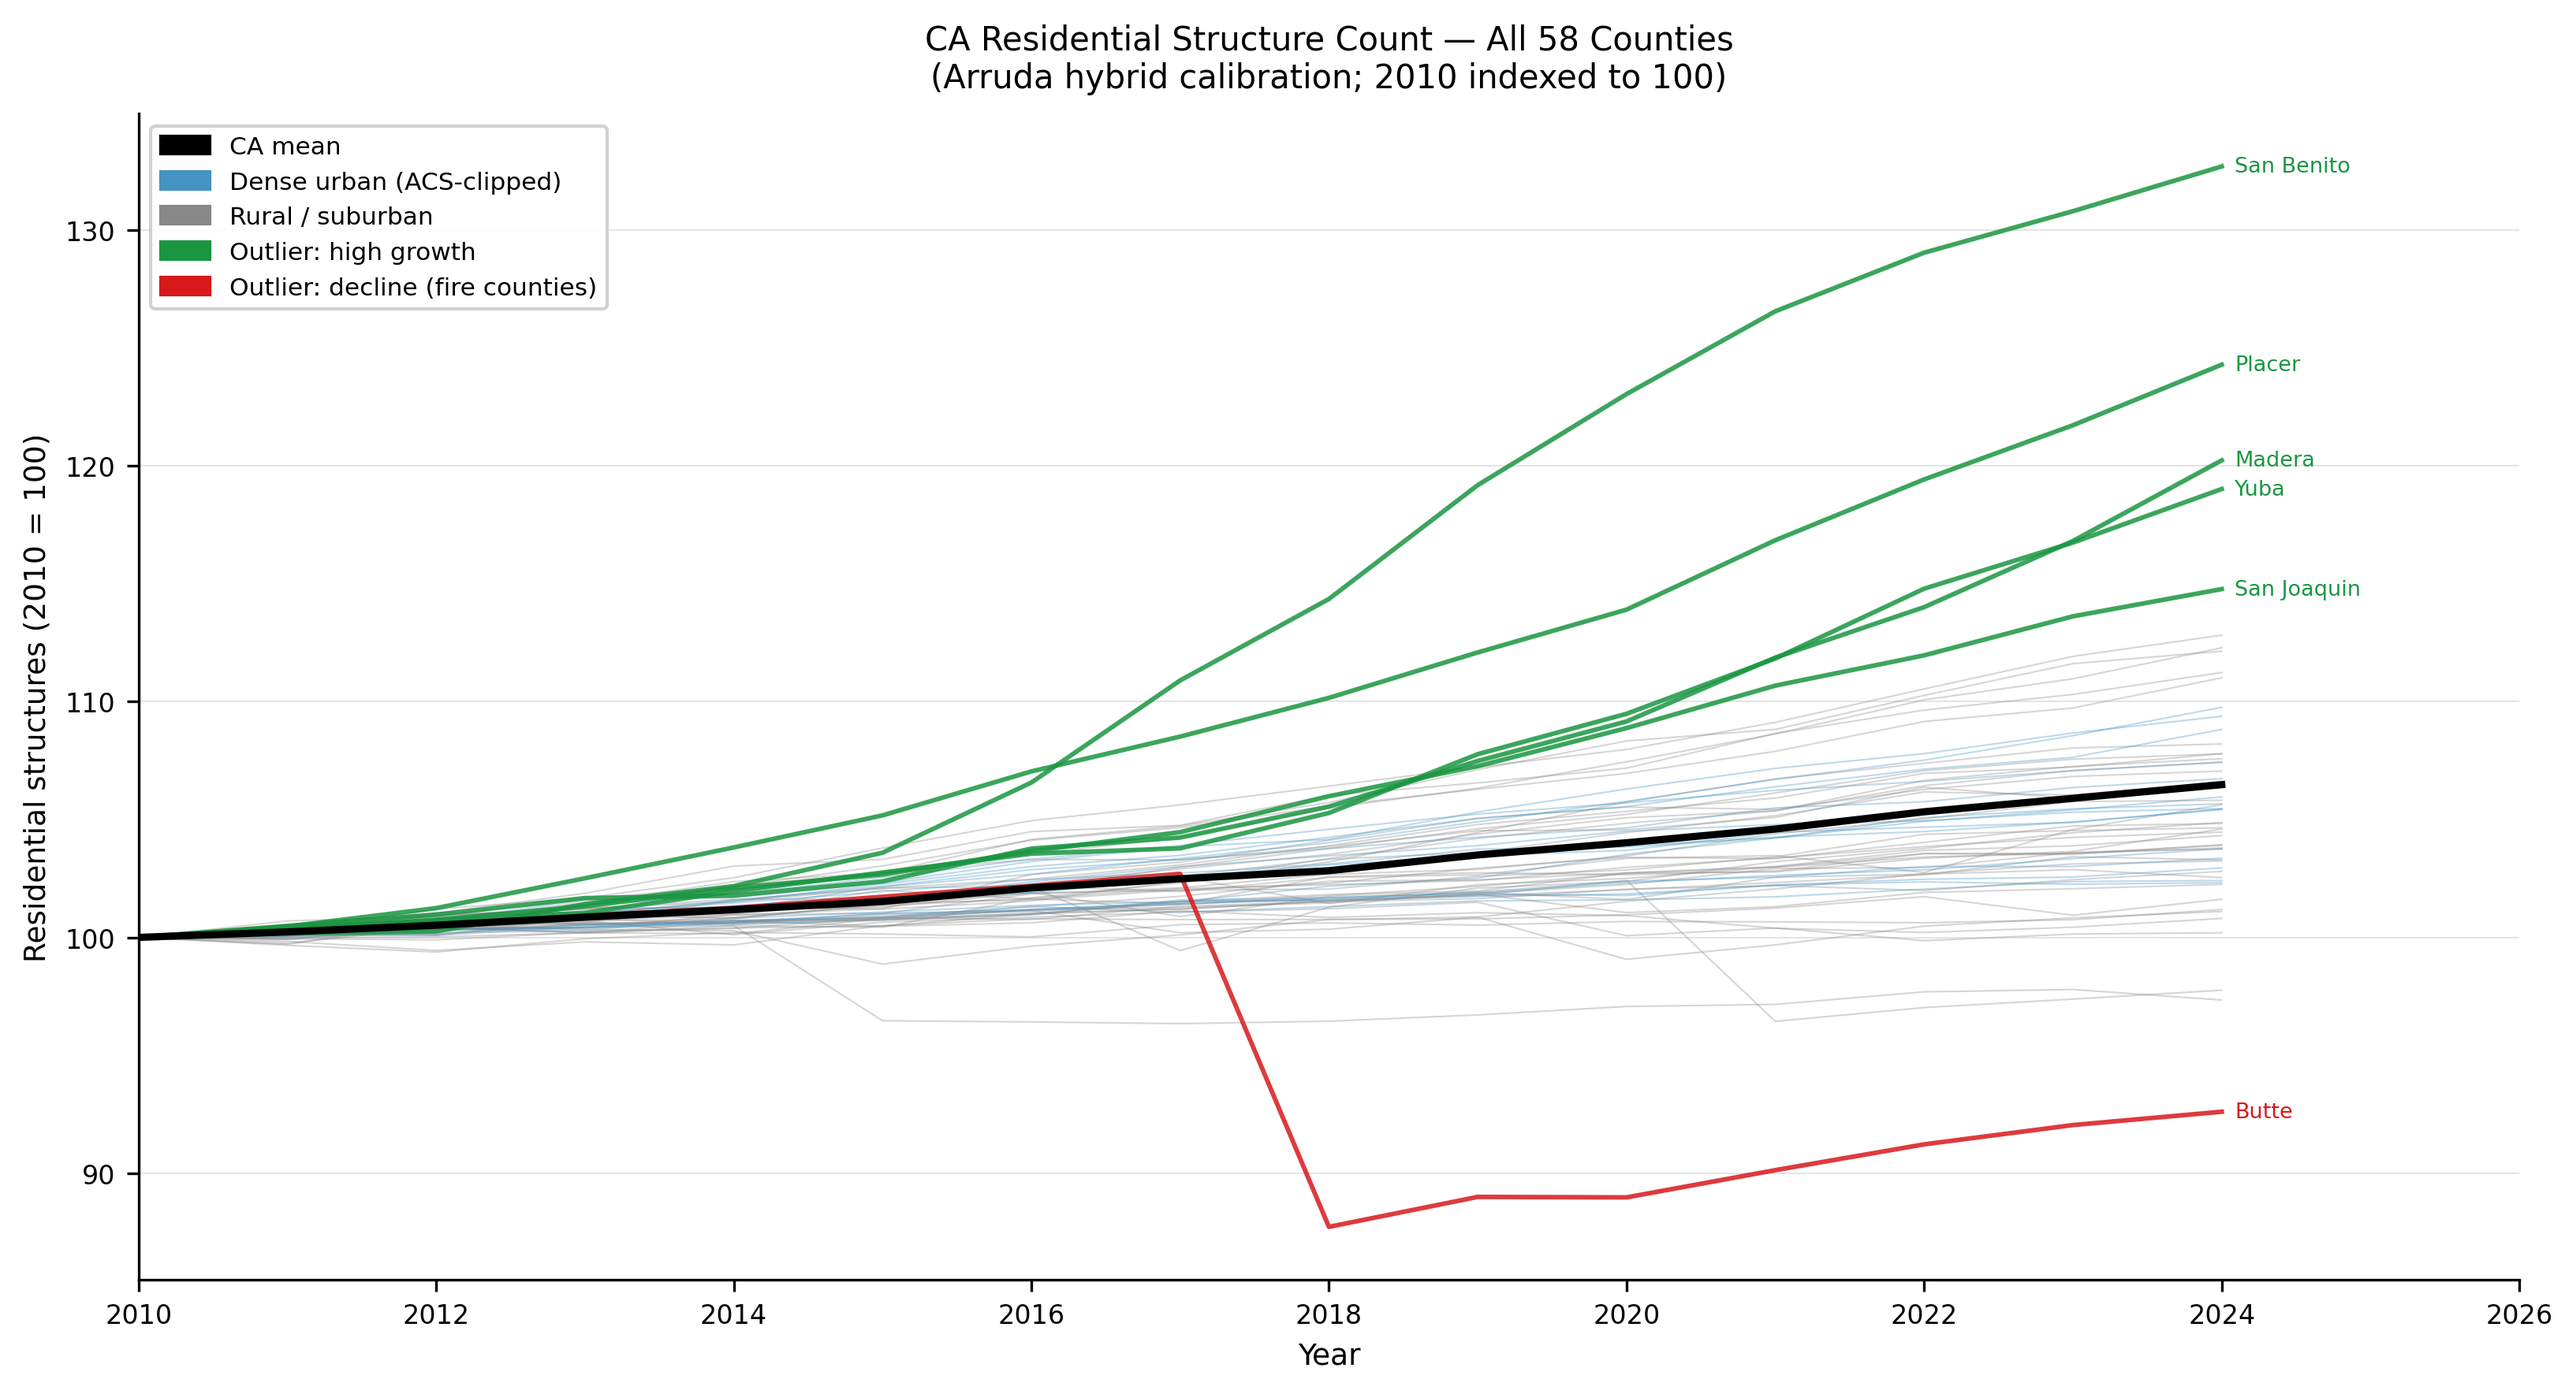
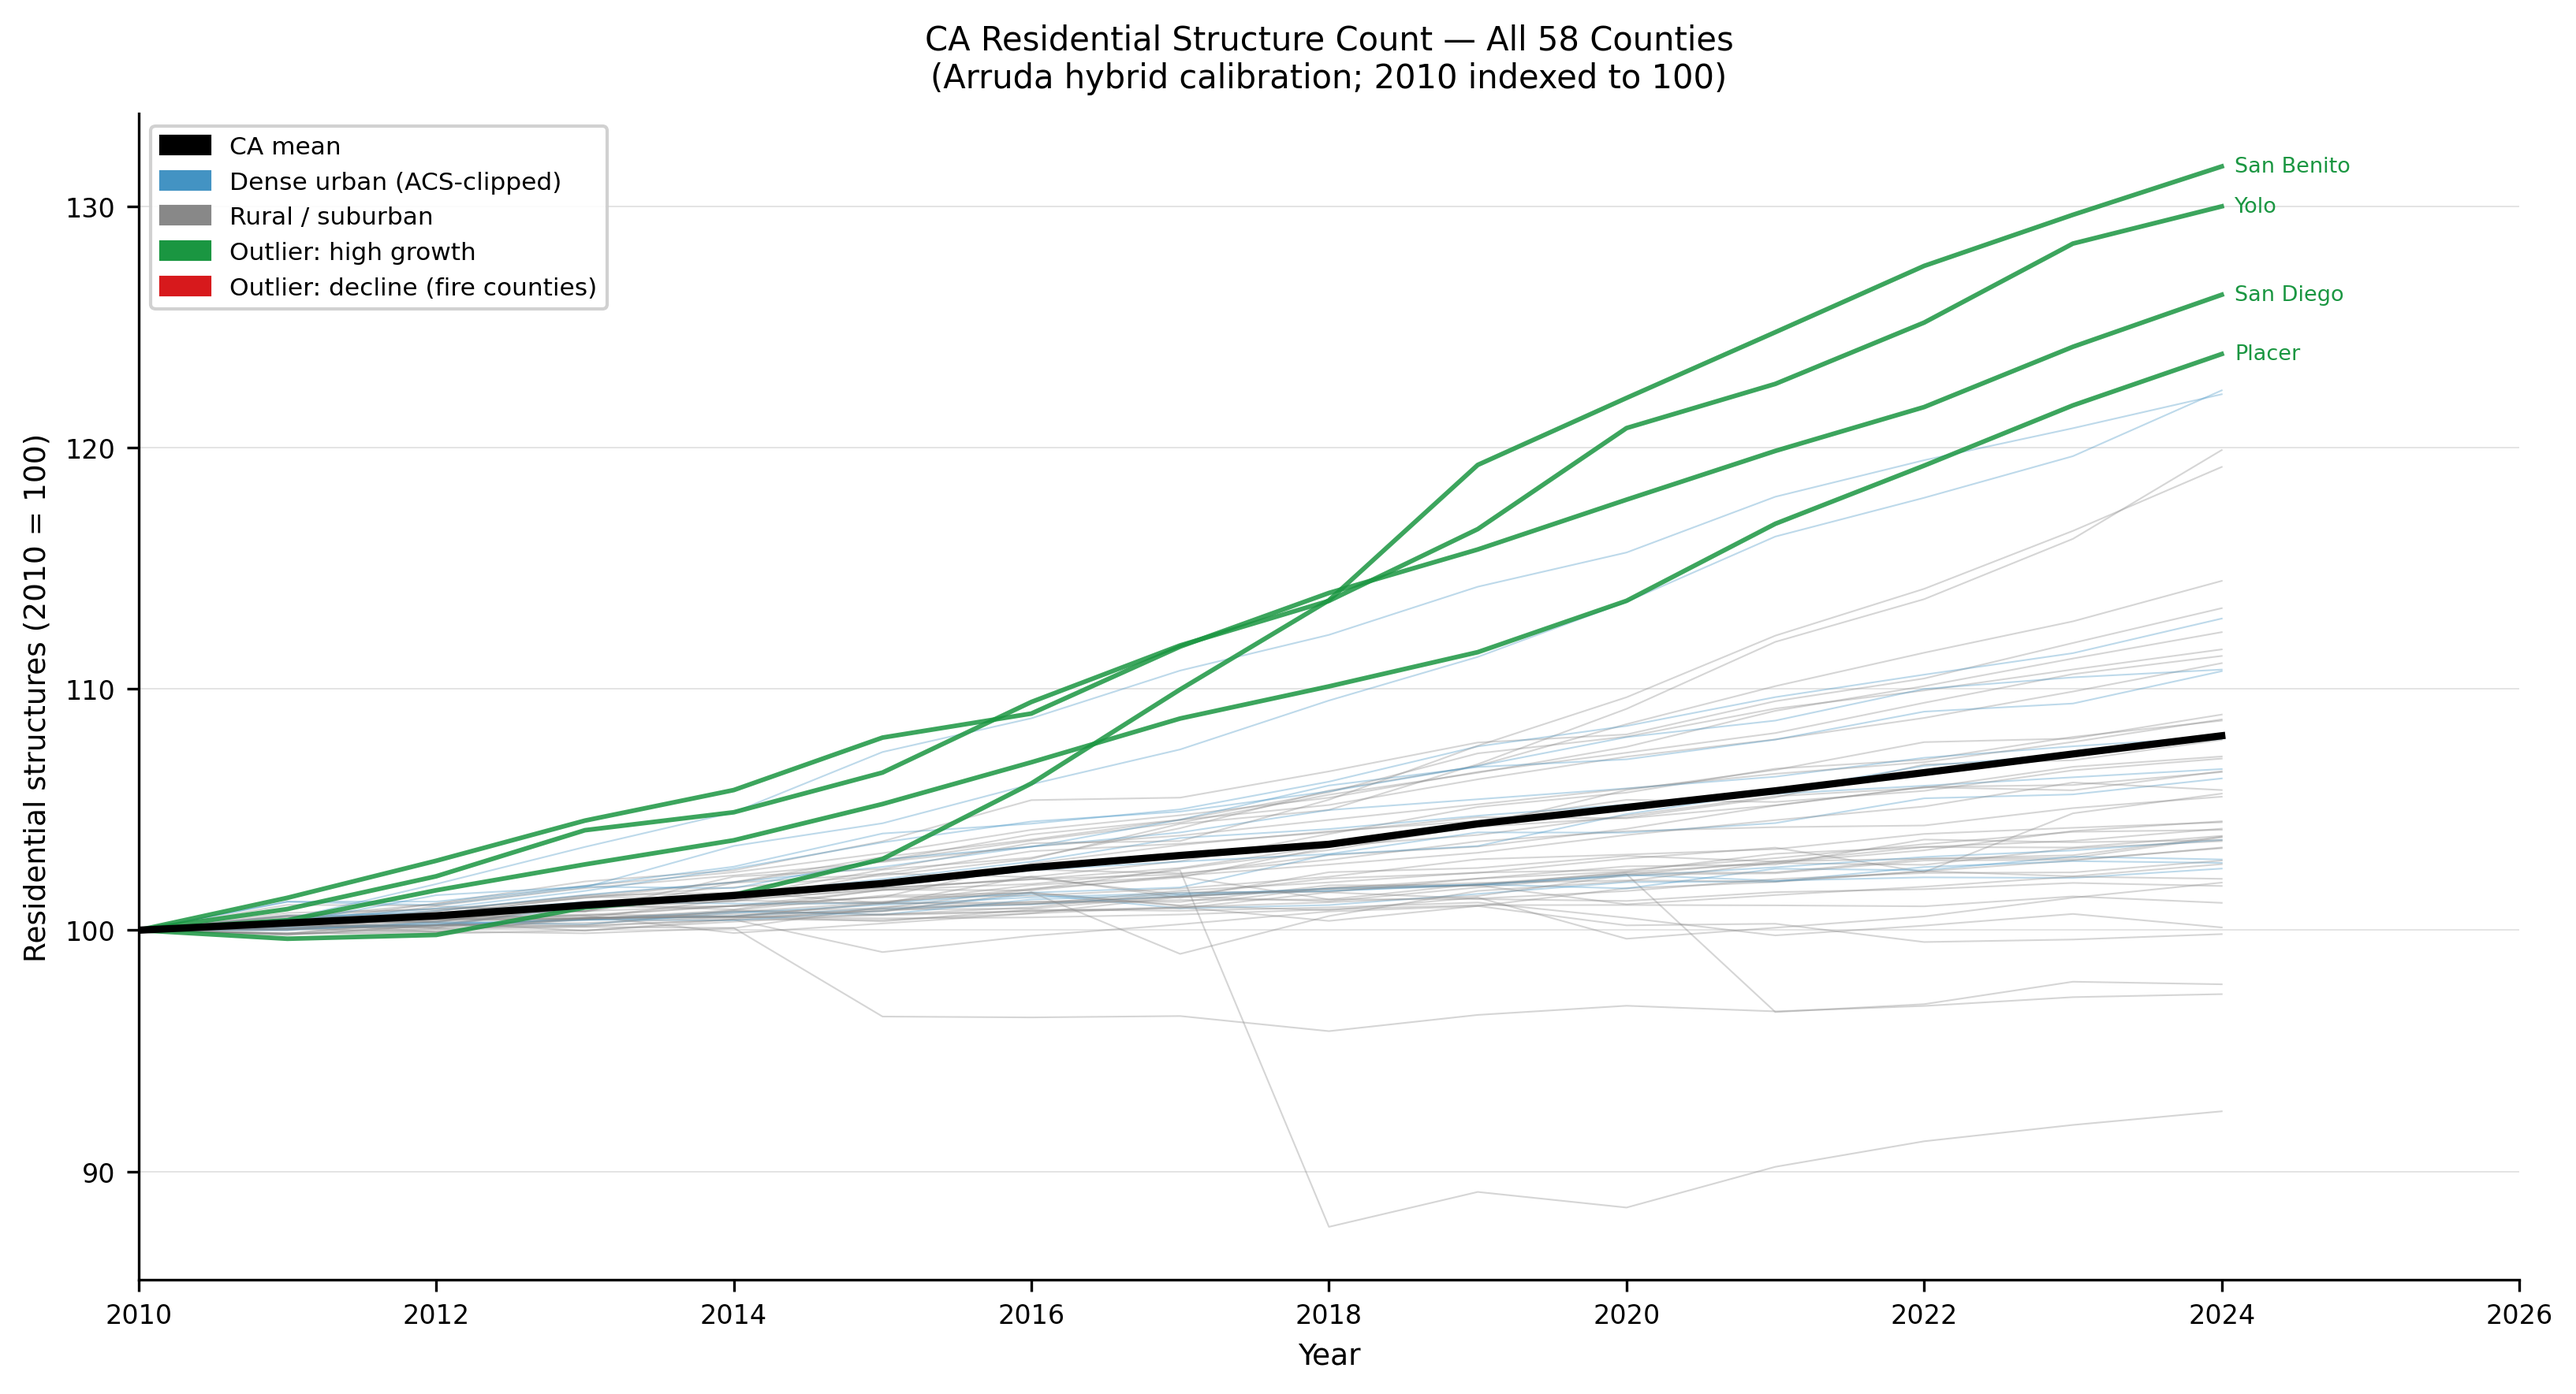
Re-run script 05+08 with raw Overture data; native Arruda hybrid active
Script 05: Spatial join ran on 15.6M Overture buildings (copied from prop13).
All 15 ACS-clipped counties now have arruda_direct calibration:
  f_c range: 0.22 (San Diego) to 0.93 (Orange); was 0.99 for all.
  All 58 counties converged in Phase 1; μ range 0.225–0.887.

Script 08: Updated to detect arruda_direct as dense-urban (not just acs_clipped).
  Post-hoc rescaling correctly skips all counties (bootstrap already calibrated).
  Spaghetti plots and GIF regenerated from native Arruda-hybrid bootstrap.

diff --git a/scripts/08_arruda_hybrid_validation.py b/scripts/08_arruda_hybrid_validation.py
@@ -225,8 +225,10 @@ def compute_hybrid_panel(
         .rename(columns={"p50_residential_count": "bootstrap_p50_2024"})
     )
 
-    # Clipping counties
-    clipping_fips = set(ext[ext["calibration_source"] == "acs_clipped"]["county_FIPS"])
+    # Dense urban counties: acs_clipped (script 05 not yet re-run with Arruda) OR
+    # arruda_direct (script 05 already re-run — no post-hoc rescaling needed for these)
+    clipping_fips      = set(ext[ext["calibration_source"].isin({"acs_clipped", "arruda_direct"})]["county_FIPS"])
+    needs_rescale_fips = set(ext[ext["calibration_source"] == "acs_clipped"]["county_FIPS"])
 
     # Scale table: one row per county (all 58)
     scale_rows = []
@@ -240,7 +242,8 @@ def compute_hybrid_panel(
         .iterrows()
     ):
         fips   = row["county_FIPS"]
-        is_clip = fips in clipping_fips
+        is_clip          = fips in clipping_fips
+        needs_rescale    = fips in needs_rescale_fips
         p50_24 = float(row["bootstrap_p50_2024"]) if not pd.isna(row["bootstrap_p50_2024"]) else None
         arr_res = float(row["arruda_res_count"]) if not pd.isna(row["arruda_res_count"]) else None
         r_c     = float(row["R_c"])
@@ -248,10 +251,13 @@ def compute_hybrid_panel(
         # Skip rescaling if Arruda_RES < R_c (negative gap — would bias downward)
         arruda_negative = arr_res is not None and arr_res < r_c
 
-        if is_clip and p50_24 is not None and arr_res is not None and not arruda_negative:
+        if needs_rescale and p50_24 is not None and arr_res is not None and not arruda_negative:
+            # acs_clipped: bootstrap not yet Arruda-calibrated → rescale post-hoc
             sf = arr_res / p50_24
         else:
-            sf = 1.0   # no rescaling
+            # arruda_direct: bootstrap already Arruda-calibrated by script 05 (no-op)
+            # or non-clipping county
+            sf = 1.0
 
         scale_map[fips] = sf if is_clip else 1.0
         scale_rows.append({
@@ -264,7 +270,7 @@ def compute_hybrid_panel(
             "scale_factor":        round(sf, 6),
             "change_pct":          round((sf - 1.0) * 100, 2),
             "arruda_negative_flag": arruda_negative,
-            "rescaled":            is_clip and sf != 1.0,
+            "rescaled":            needs_rescale and sf != 1.0,
         })
 
     scale_table = pd.DataFrame(scale_rows).sort_values("county_FIPS")
@@ -362,8 +368,8 @@ def plot_spaghetti_all(
     df = index_to_base_year(hybrid_ts)
     outlier_fips = flag_outliers(df)
 
-    # Classification for coloring outliers
-    clipping_fips = set(ext[ext["calibration_source"] == "acs_clipped"]["county_FIPS"])
+    # Classification for coloring outliers (dense urban = acs_clipped OR arruda_direct)
+    clipping_fips = set(ext[ext["calibration_source"].isin({"acs_clipped", "arruda_direct"})]["county_FIPS"])
 
     fig, ax = plt.subplots(figsize=(11, 6))
     ax.set_facecolor("white")
@@ -438,7 +444,7 @@ def plot_spaghetti_dense_urban(
     15 ACS-clipped counties. Each county: dashed=original bootstrap, solid=hybrid.
     Shows how Arruda rescaling changes the dense-urban estimates.
     """
-    clipping_fips = sorted(ext[ext["calibration_source"] == "acs_clipped"]["county_FIPS"])
+    clipping_fips = sorted(ext[ext["calibration_source"].isin({"acs_clipped", "arruda_direct"})]["county_FIPS"])
 
     orig_sub  = original_ts[original_ts["county_FIPS"].isin(clipping_fips)].copy()
     hyb_sub   = hybrid_ts[hybrid_ts["county_FIPS"].isin(clipping_fips)].copy()
@@ -499,9 +505,16 @@ def plot_spaghetti_dense_urban(
 
     ax.set_xlabel("Year", fontsize=9)
     ax.set_ylabel("Residential structures (2010 = 100)", fontsize=9)
-    ax.set_title("Dense Urban Counties (ACS-clipped) — Original vs Arruda Hybrid\n"
-                 "(dashed = original bootstrap; solid = Arruda rescaled)",
-                 fontsize=10, pad=8)
+    n_direct  = (ext["calibration_source"] == "arruda_direct").sum()
+    n_clipped = (ext["calibration_source"] == "acs_clipped").sum()
+    mode_note = (
+        "Script 05 re-run with Arruda hybrid — bootstrap natively calibrated"
+        if n_direct > 0 else
+        "Post-hoc rescaling applied — re-run script 05 for native calibration"
+    )
+    ax.set_title(f"Dense Urban Counties — Arruda-Calibrated Residential Structures\n"
+                 f"({mode_note}; dashed = original; solid = current)",
+                 fontsize=9, pad=8)
     ax.set_xlim(2010, 2027)
     ax.yaxis.set_major_formatter(mticker.FormatStrFormatter("%.0f"))
     ax.spines[["top", "right"]].set_visible(False)
@@ -525,7 +538,7 @@ def plot_spaghetti_rural(
     out_path: Path,
 ) -> None:
     """43 non-clipping counties indexed to 2010=100. Mean line, IQR-outliers labeled."""
-    rural_fips = set(ext[ext["calibration_source"] == "acs"]["county_FIPS"])
+    rural_fips = set(ext[ext["calibration_source"] == "acs"]["county_FIPS"])  # only clean-ACS counties
     df_rural   = hybrid_ts[hybrid_ts["county_FIPS"].isin(rural_fips)].copy()
     df_idx     = index_to_base_year(df_rural)
     outlier_fips = flag_outliers(df_idx)
